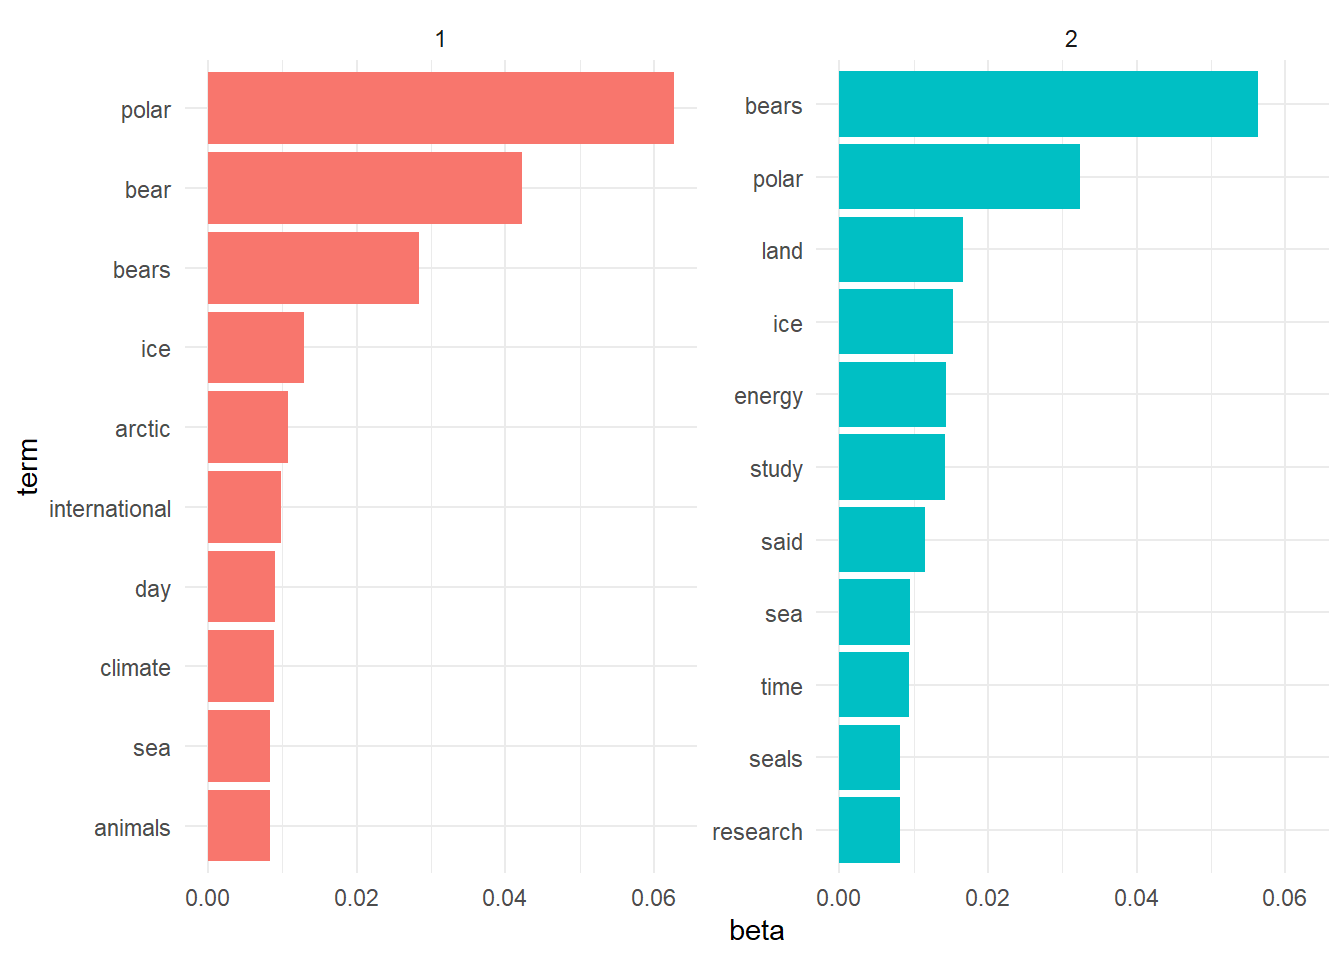
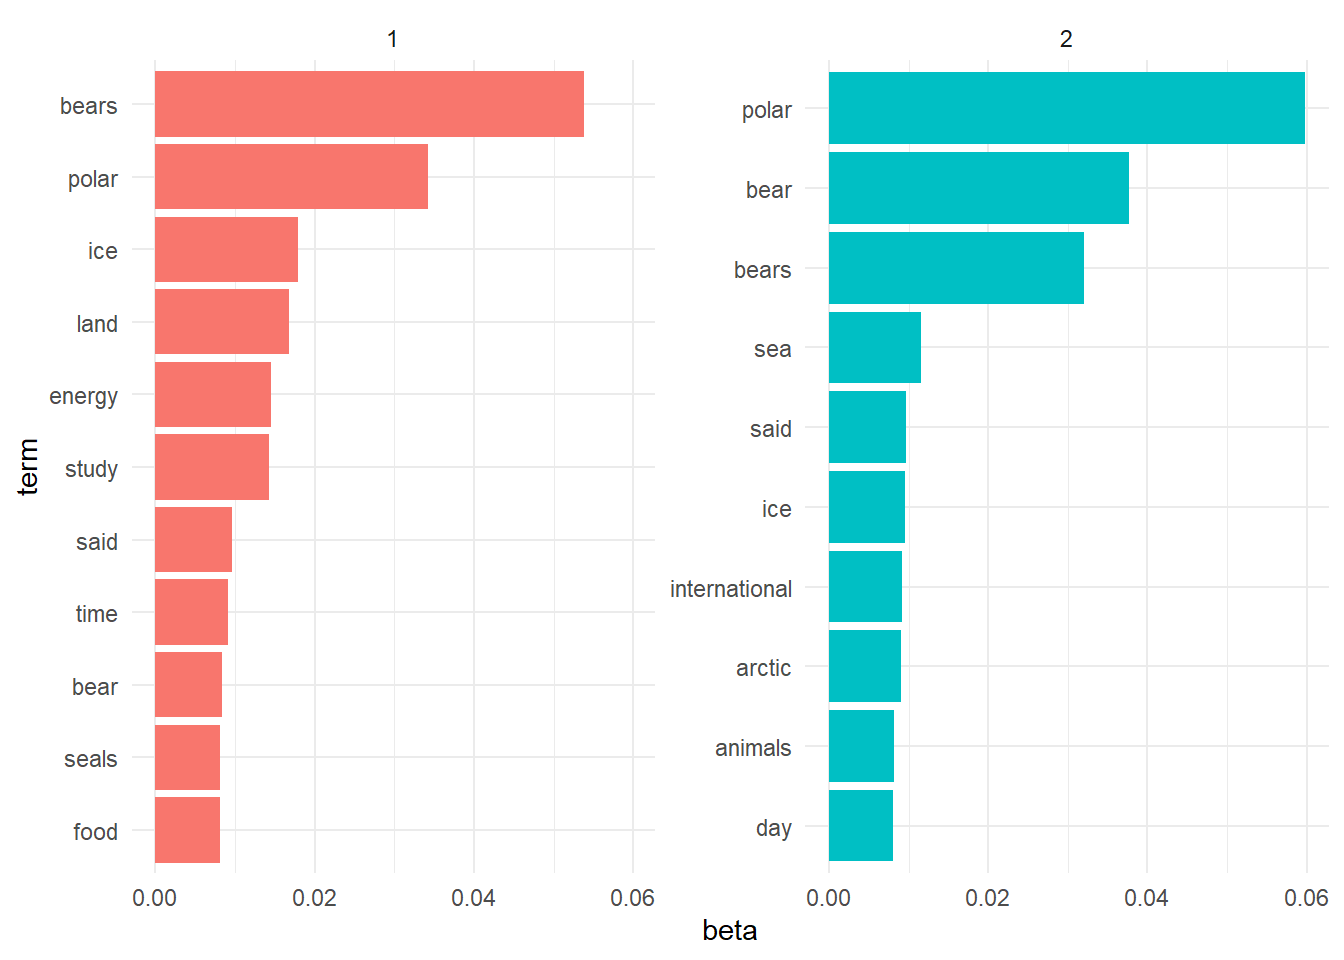
image solved

diff --git a/docs/featured_projects/textAnalysis/index.html b/docs/featured_projects/textAnalysis/index.html
@@ -310,25 +310,25 @@ calculate metrics:
 <div class="sourceCode cell-code" id="cb7"><pre class="sourceCode r code-with-copy"><code class="sourceCode r"><span id="cb7-1"><a href="#cb7-1" aria-hidden="true" tabindex="-1"></a>results</span></code><button title="Copy to Clipboard" class="code-copy-button"><i class="bi"></i></button></pre></div>
 <div class="cell-output cell-output-stdout">
 <pre><code>   topics CaoJuan2009 Deveaud2014
-1      20   0.1742275    1.300767
-2      19   0.1786294    1.354675
-3      18   0.1420013    1.413899
-4      17   0.1857903    1.395219
-5      16   0.1715692    1.440370
-6      15   0.2458650    1.417818
-7      14   0.2249723    1.447064
-8      13   0.2422587    1.494927
-9      12   0.2388579    1.496121
-10     11   0.2714194    1.525100
-11     10   0.2811137    1.553163
-12      9   0.3285271    1.523071
-13      8   0.3811415    1.498411
-14      7   0.4343982    1.503847
-15      6   0.3535829    1.623160
-16      5   0.5015166    1.523753
-17      4   0.4607067    1.589695
-18      3   0.4851089    1.597421
-19      2   0.5878760    1.576007</code></pre>
+1      20   0.1741799    1.324319
+2      19   0.2001762    1.325645
+3      18   0.1947519    1.376274
+4      17   0.2023208    1.384789
+5      16   0.2326418    1.389239
+6      15   0.2101259    1.433620
+7      14   0.2533373    1.437287
+8      13   0.2909487    1.451976
+9      12   0.2621762    1.486091
+10     11   0.2857257    1.502806
+11     10   0.2518309    1.586331
+12      9   0.3248986    1.574296
+13      8   0.3578162    1.549148
+14      7   0.4330922    1.486113
+15      6   0.4270767    1.557415
+16      5   0.4469745    1.567938
+17      4   0.5062887    1.550996
+18      3   0.5057868    1.562577
+19      2   0.5817909    1.571584</code></pre>
 </div>
 </div>
 <div class="cell">
@@ -351,23 +351,23 @@ calculate metrics:
 <div class="sourceCode cell-code" id="cb11"><pre class="sourceCode r code-with-copy"><code class="sourceCode r"><span id="cb11-1"><a href="#cb11-1" aria-hidden="true" tabindex="-1"></a><span class="co"># Plot the top terms in each topic</span></span>
 <span id="cb11-2"><a href="#cb11-2" aria-hidden="true" tabindex="-1"></a><span class="fu">terms</span>(topicModel_k2, <span class="dv">10</span>) <span class="co"># Most probable words in each topic</span></span></code><button title="Copy to Clipboard" class="code-copy-button"><i class="bi"></i></button></pre></div>
 <div class="cell-output cell-output-stdout">
-<pre><code>      Topic 1         Topic 2 
- [1,] "polar"         "bears" 
- [2,] "bear"          "polar" 
- [3,] "bears"         "land"  
- [4,] "ice"           "ice"   
- [5,] "arctic"        "energy"
- [6,] "international" "study" 
- [7,] "day"           "said"  
- [8,] "climate"       "sea"   
- [9,] "animals"       "time"  
-[10,] "sea"           "seals" </code></pre>
+<pre><code>      Topic 1  Topic 2        
+ [1,] "bears"  "polar"        
+ [2,] "polar"  "bear"         
+ [3,] "ice"    "bears"        
+ [4,] "land"   "sea"          
+ [5,] "energy" "said"         
+ [6,] "study"  "ice"          
+ [7,] "said"   "international"
+ [8,] "time"   "arctic"       
+ [9,] "bear"   "animals"      
+[10,] "food"   "day"          </code></pre>
 </div>
 <div class="sourceCode cell-code" id="cb13"><pre class="sourceCode r code-with-copy"><code class="sourceCode r"><span id="cb13-1"><a href="#cb13-1" aria-hidden="true" tabindex="-1"></a>tmResult <span class="ot">&lt;-</span> <span class="fu">posterior</span>(topicModel_k2)</span>
 <span id="cb13-2"><a href="#cb13-2" aria-hidden="true" tabindex="-1"></a><span class="fu">terms</span>(topicModel_k2)</span></code><button title="Copy to Clipboard" class="code-copy-button"><i class="bi"></i></button></pre></div>
 <div class="cell-output cell-output-stdout">
 <pre><code>Topic 1 Topic 2 
-"polar" "bears" </code></pre>
+"bears" "polar" </code></pre>
 </div>
 <div class="sourceCode cell-code" id="cb15"><pre class="sourceCode r code-with-copy"><code class="sourceCode r"><span id="cb15-1"><a href="#cb15-1" aria-hidden="true" tabindex="-1"></a>theta <span class="ot">&lt;-</span> tmResult<span class="sc">$</span>topics</span>
 <span id="cb15-2"><a href="#cb15-2" aria-hidden="true" tabindex="-1"></a>beta <span class="ot">&lt;-</span> tmResult<span class="sc">$</span>terms</span>
@@ -395,108 +395,108 @@ calculate metrics:
 <tbody>
 <tr class="odd">
 <td style="text-align: right;">1</td>
-<td style="text-align: left;">polar</td>
-<td style="text-align: right;">0.0627110</td>
+<td style="text-align: left;">bears</td>
+<td style="text-align: right;">0.0538575</td>
 </tr>
 <tr class="even">
+<td style="text-align: right;">1</td>
+<td style="text-align: left;">polar</td>
+<td style="text-align: right;">0.0342213</td>
+</tr>
+<tr class="odd">
+<td style="text-align: right;">1</td>
+<td style="text-align: left;">ice</td>
+<td style="text-align: right;">0.0179196</td>
+</tr>
+<tr class="even">
+<td style="text-align: right;">1</td>
+<td style="text-align: left;">land</td>
+<td style="text-align: right;">0.0168081</td>
+</tr>
+<tr class="odd">
+<td style="text-align: right;">1</td>
+<td style="text-align: left;">energy</td>
+<td style="text-align: right;">0.0144616</td>
+</tr>
+<tr class="even">
+<td style="text-align: right;">1</td>
+<td style="text-align: left;">study</td>
+<td style="text-align: right;">0.0142146</td>
+</tr>
+<tr class="odd">
+<td style="text-align: right;">1</td>
+<td style="text-align: left;">said</td>
+<td style="text-align: right;">0.0096452</td>
+</tr>
+<tr class="even">
+<td style="text-align: right;">1</td>
+<td style="text-align: left;">time</td>
+<td style="text-align: right;">0.0091512</td>
+</tr>
+<tr class="odd">
 <td style="text-align: right;">1</td>
 <td style="text-align: left;">bear</td>
-<td style="text-align: right;">0.0422563</td>
-</tr>
-<tr class="odd">
-<td style="text-align: right;">1</td>
-<td style="text-align: left;">bears</td>
-<td style="text-align: right;">0.0284536</td>
+<td style="text-align: right;">0.0084102</td>
 </tr>
 <tr class="even">
 <td style="text-align: right;">1</td>
-<td style="text-align: left;">ice</td>
-<td style="text-align: right;">0.0129879</td>
+<td style="text-align: left;">food</td>
+<td style="text-align: right;">0.0081632</td>
 </tr>
 <tr class="odd">
 <td style="text-align: right;">1</td>
-<td style="text-align: left;">arctic</td>
-<td style="text-align: right;">0.0108260</td>
-</tr>
-<tr class="even">
-<td style="text-align: right;">1</td>
-<td style="text-align: left;">international</td>
-<td style="text-align: right;">0.0098282</td>
-</tr>
-<tr class="odd">
-<td style="text-align: right;">1</td>
-<td style="text-align: left;">day</td>
-<td style="text-align: right;">0.0089967</td>
-</tr>
-<tr class="even">
-<td style="text-align: right;">1</td>
-<td style="text-align: left;">climate</td>
-<td style="text-align: right;">0.0088304</td>
-</tr>
-<tr class="odd">
-<td style="text-align: right;">1</td>
-<td style="text-align: left;">animals</td>
-<td style="text-align: right;">0.0083315</td>
-</tr>
-<tr class="even">
-<td style="text-align: right;">1</td>
-<td style="text-align: left;">sea</td>
-<td style="text-align: right;">0.0083315</td>
-</tr>
-<tr class="odd">
-<td style="text-align: right;">2</td>
-<td style="text-align: left;">bears</td>
-<td style="text-align: right;">0.0562931</td>
+<td style="text-align: left;">seals</td>
+<td style="text-align: right;">0.0081632</td>
 </tr>
 <tr class="even">
 <td style="text-align: right;">2</td>
 <td style="text-align: left;">polar</td>
-<td style="text-align: right;">0.0323125</td>
+<td style="text-align: right;">0.0597934</td>
 </tr>
 <tr class="odd">
 <td style="text-align: right;">2</td>
-<td style="text-align: left;">land</td>
-<td style="text-align: right;">0.0166518</td>
+<td style="text-align: left;">bear</td>
+<td style="text-align: right;">0.0376234</td>
 </tr>
 <tr class="even">
 <td style="text-align: right;">2</td>
-<td style="text-align: left;">ice</td>
-<td style="text-align: right;">0.0153059</td>
+<td style="text-align: left;">bears</td>
+<td style="text-align: right;">0.0320398</td>
 </tr>
 <tr class="odd">
-<td style="text-align: right;">2</td>
-<td style="text-align: left;">energy</td>
-<td style="text-align: right;">0.0143271</td>
-</tr>
-<tr class="even">
-<td style="text-align: right;">2</td>
-<td style="text-align: left;">study</td>
-<td style="text-align: right;">0.0142048</td>
-</tr>
-<tr class="odd">
-<td style="text-align: right;">2</td>
-<td style="text-align: left;">said</td>
-<td style="text-align: right;">0.0115131</td>
-</tr>
-<tr class="even">
 <td style="text-align: right;">2</td>
 <td style="text-align: left;">sea</td>
-<td style="text-align: right;">0.0094332</td>
-</tr>
-<tr class="odd">
-<td style="text-align: right;">2</td>
-<td style="text-align: left;">time</td>
-<td style="text-align: right;">0.0093108</td>
+<td style="text-align: right;">0.0115120</td>
 </tr>
 <tr class="even">
 <td style="text-align: right;">2</td>
-<td style="text-align: left;">seals</td>
-<td style="text-align: right;">0.0080873</td>
+<td style="text-align: left;">said</td>
+<td style="text-align: right;">0.0097055</td>
 </tr>
 <tr class="odd">
 <td style="text-align: right;">2</td>
-<td style="text-align: left;">research</td>
-<td style="text-align: right;">0.0080873</td>
+<td style="text-align: left;">ice</td>
+<td style="text-align: right;">0.0095413</td>
+</tr>
+<tr class="even">
+<td style="text-align: right;">2</td>
+<td style="text-align: left;">international</td>
+<td style="text-align: right;">0.0092129</td>
+</tr>
+<tr class="odd">
+<td style="text-align: right;">2</td>
+<td style="text-align: left;">arctic</td>
+<td style="text-align: right;">0.0090487</td>
+</tr>
+<tr class="even">
+<td style="text-align: right;">2</td>
+<td style="text-align: left;">animals</td>
+<td style="text-align: right;">0.0082275</td>
+</tr>
+<tr class="odd">
+<td style="text-align: right;">2</td>
+<td style="text-align: left;">day</td>
+<td style="text-align: right;">0.0080633</td>
 </tr>
 </tbody>
 </table>

diff --git a/docs/featured_projects.html b/docs/featured_projects.html
@@ -246,9 +246,9 @@ Sujan Bhattarai
 </a>
 </div>
 </div>
-<div class="quarto-post image-right" data-index="2" data-categories="NLP,R" data-listing-file-modified-sort="1720900816329" data-listing-reading-time-sort="9">
+<div class="quarto-post image-right" data-index="2" data-categories="NLP,R" data-listing-file-modified-sort="1720918890806" data-listing-reading-time-sort="9">
 <div class="thumbnail">
-<p><a href="./featured_projects/textAnalysis/index.html"> <img src="./featured_projects/textanalysis/data/news.jpg" class="thumbnail-image"> </a></p>
+<p><a href="./featured_projects/textAnalysis/index.html"> <img src="./featured_projects/textanalysis/news.jpg" class="thumbnail-image"> </a></p>
 </div>
 <div class="body">
 <a href="./featured_projects/textAnalysis/index.html">
